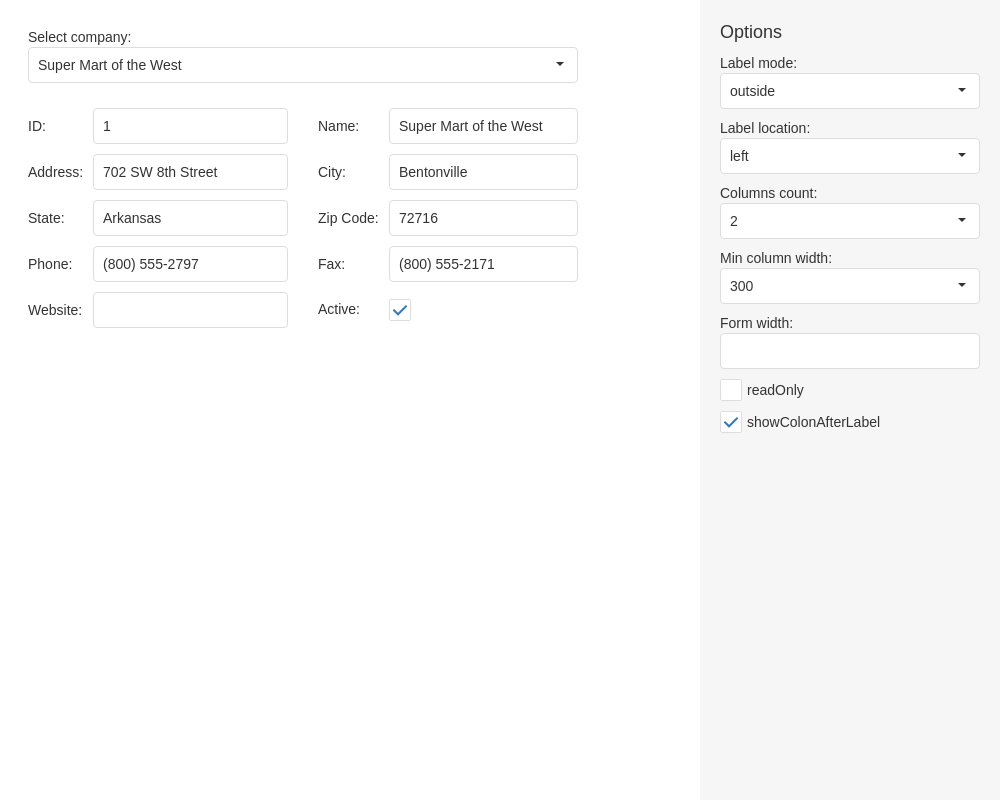
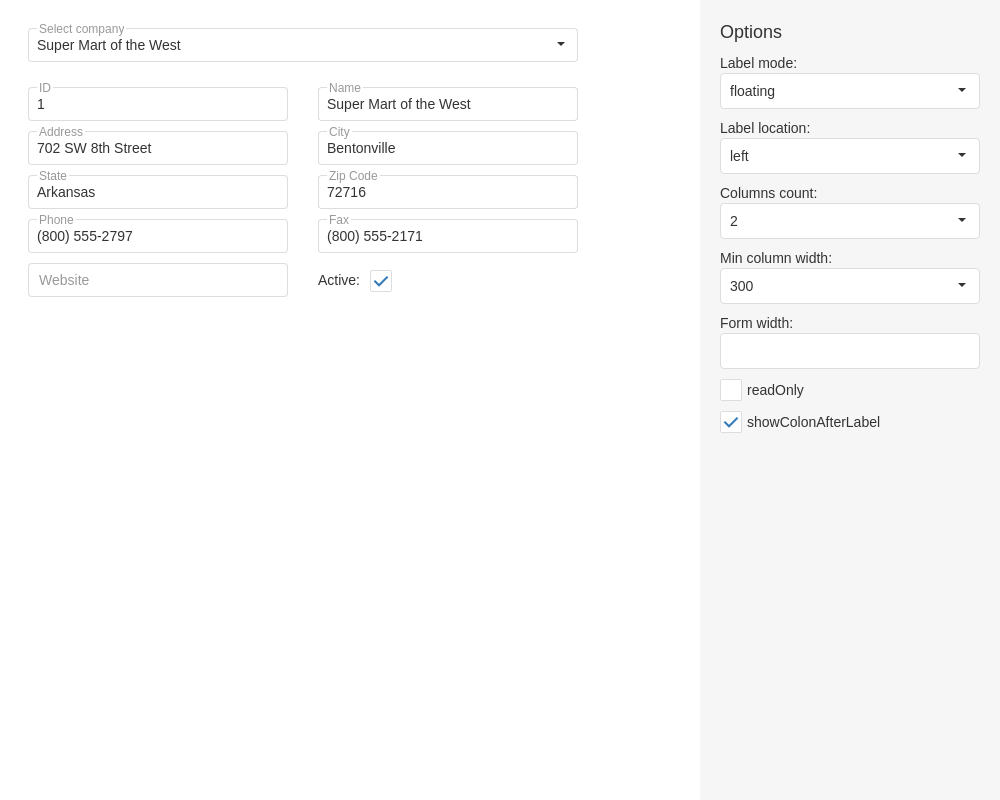
Form - Overview demo. Use floating label mode by default (#1553) (#1554)
* Use floating mode by default

* Update etalons

Changed region(s): [[0.031, 0.0312, 0.279, 0.4062], [0.31, 0.0938, 0.558, 0.4062], [0.713, 0.0938, 0.775, 0.125]]

diff --git a/JSDemos/Demos/Form/Overview/jQuery/index.js b/JSDemos/Demos/Form/Overview/jQuery/index.js
@@ -1,6 +1,6 @@
 $(() => {
   const form = $('#form').dxForm({
-    labelMode: 'outside',
+    labelMode: 'floating',
     formData: companies[0],
     readOnly: false,
     showColonAfterLabel: true,
@@ -12,7 +12,7 @@ $(() => {
   const companySelectorSelectBox = $('#select-company').dxSelectBox({
     displayExpr: 'Name',
     dataSource: companies,
-    labelMode: 'hidden',
+    labelMode: 'floating',
     label: 'Select company',
     value: companies[0],
     onValueChanged(data) {
@@ -24,7 +24,7 @@ $(() => {
 
   $('#label-mode').dxSelectBox({
     items: ['outside', 'static', 'floating', 'hidden'],
-    value: 'outside',
+    value: 'floating',
     onValueChanged(data) {
       form.option('labelMode', data.value);
 

diff --git a/JSDemos/Demos/Form/Overview/AngularJS/index.js b/JSDemos/Demos/Form/Overview/AngularJS/index.js
@@ -4,7 +4,7 @@ DemoApp.controller('DemoController', ($scope) => {
   $scope.showColon = true;
   $scope.data = companies[0];
   $scope.readOnly = false;
-  $scope.labelMode = 'outside';
+  $scope.labelMode = 'floating';
   $scope.labelLocation = 'left';
   $scope.minColWidth = 300;
   $scope.colCount = 2;

diff --git a/JSDemos/Demos/Form/Overview/React/App.js b/JSDemos/Demos/Form/Overview/React/App.js
@@ -15,7 +15,7 @@ class App extends React.Component {
     super();
     this.companies = service.getCompanies();
     this.state = {
-      labelMode: 'outside',
+      labelMode: 'floating',
       labelLocation: 'left',
       readOnly: false,
       showColon: true,

diff --git a/JSDemos/Demos/Form/Overview/Angular/app/app.component.ts b/JSDemos/Demos/Form/Overview/Angular/app/app.component.ts
@@ -38,7 +38,7 @@ export class AppComponent {
   width: any;
 
   constructor(service: Service) {
-    this.labelMode = 'outside';
+    this.labelMode = 'floating';
     this.labelLocation = 'left';
     this.readOnly = false;
     this.showColon = true;

diff --git a/JSDemos/Demos/Form/Overview/Vue/App.vue b/JSDemos/Demos/Form/Overview/Vue/App.vue
@@ -90,7 +90,7 @@ export default {
   data() {
     const companies = service.getCompanies();
     return {
-      labelMode: 'outside',
+      labelMode: 'floating',
       labelLocation: 'left',
       readOnly: false,
       showColon: true,

diff --git a/MVCDemos/Content/DemosStyles/Form/Overview.css b/MVCDemos/Content/DemosStyles/Form/Overview.css
@@ -7,6 +7,9 @@
 #form {
     margin-top: 25px;
 }
+#companySelectText {
+    display: none;
+}
 .options {
     padding: 20px;
     position: absolute;

diff --git a/NetCoreDemos/wwwroot/css/DemosStyles/Form/Overview.css b/NetCoreDemos/wwwroot/css/DemosStyles/Form/Overview.css
@@ -7,6 +7,9 @@
 #form {
     margin-top: 25px;
 }
+#companySelectText {
+    display: none;
+}
 .options {
     padding: 20px;
     position: absolute;

diff --git a/JSDemos/Demos/Form/Overview/jQuery/styles.css b/JSDemos/Demos/Form/Overview/jQuery/styles.css
@@ -9,6 +9,10 @@
   margin-top: 25px;
 }
 
+#select-company-text {
+  display: none;
+}
+
 .options {
   padding: 20px;
   position: absolute;
